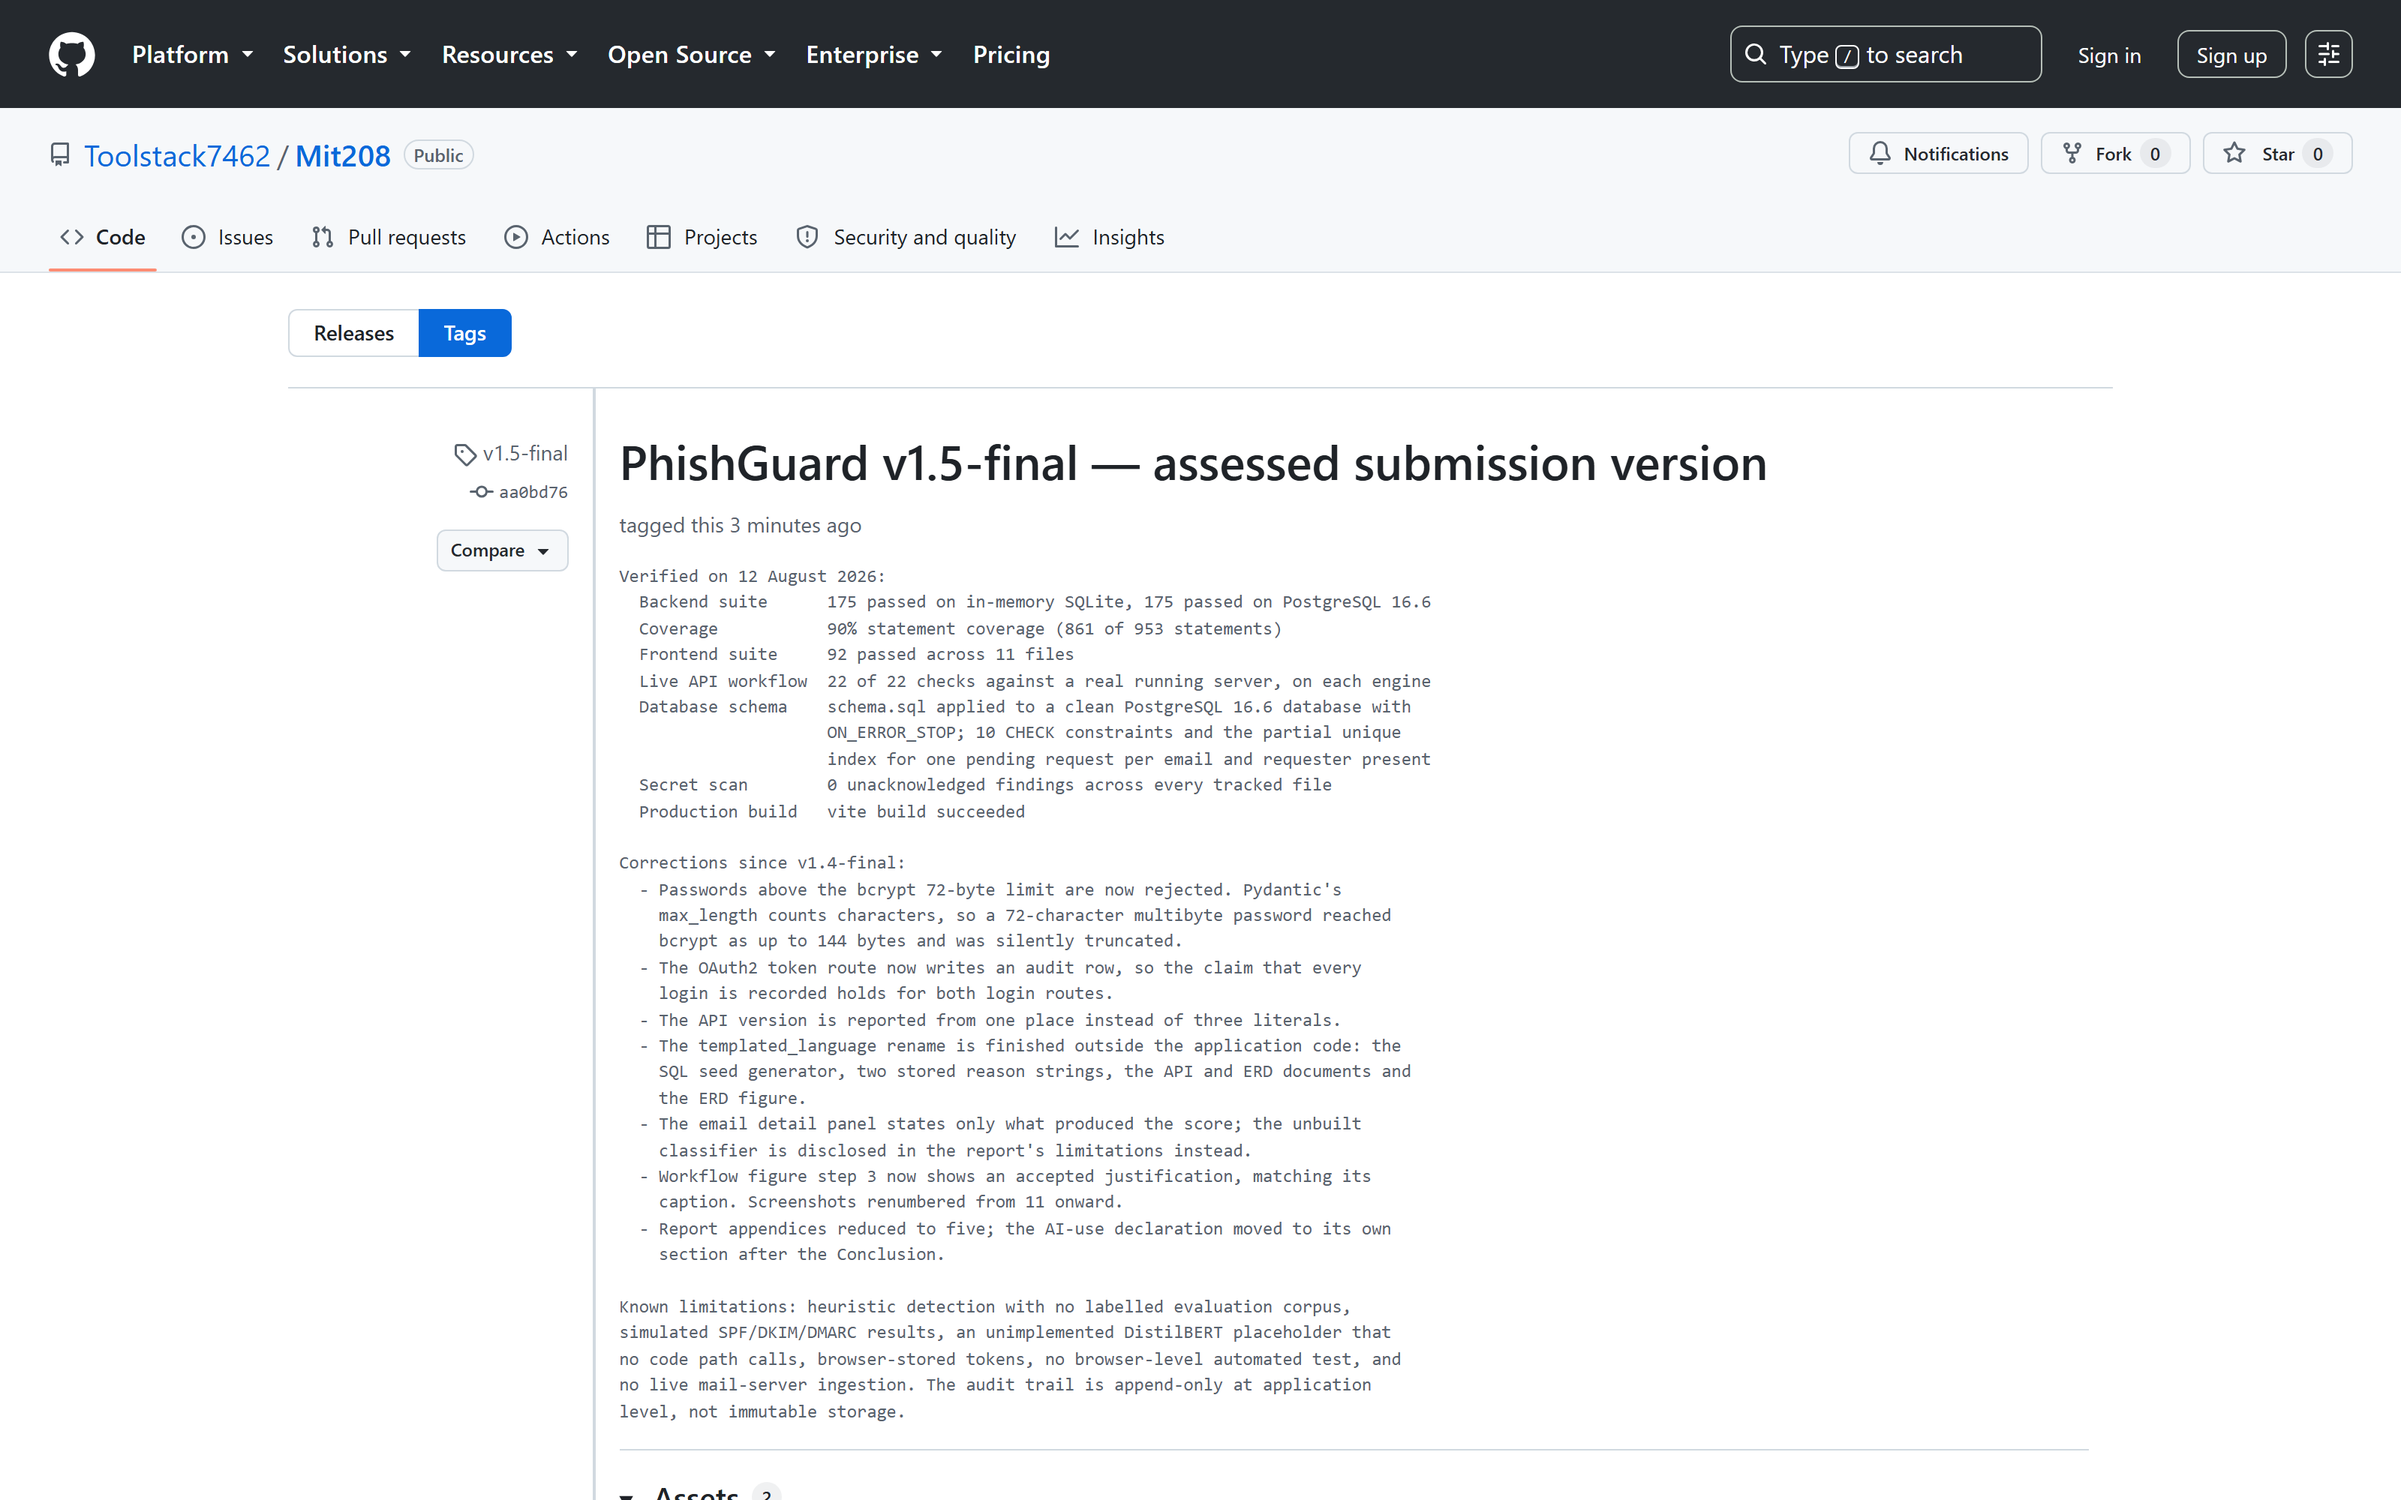
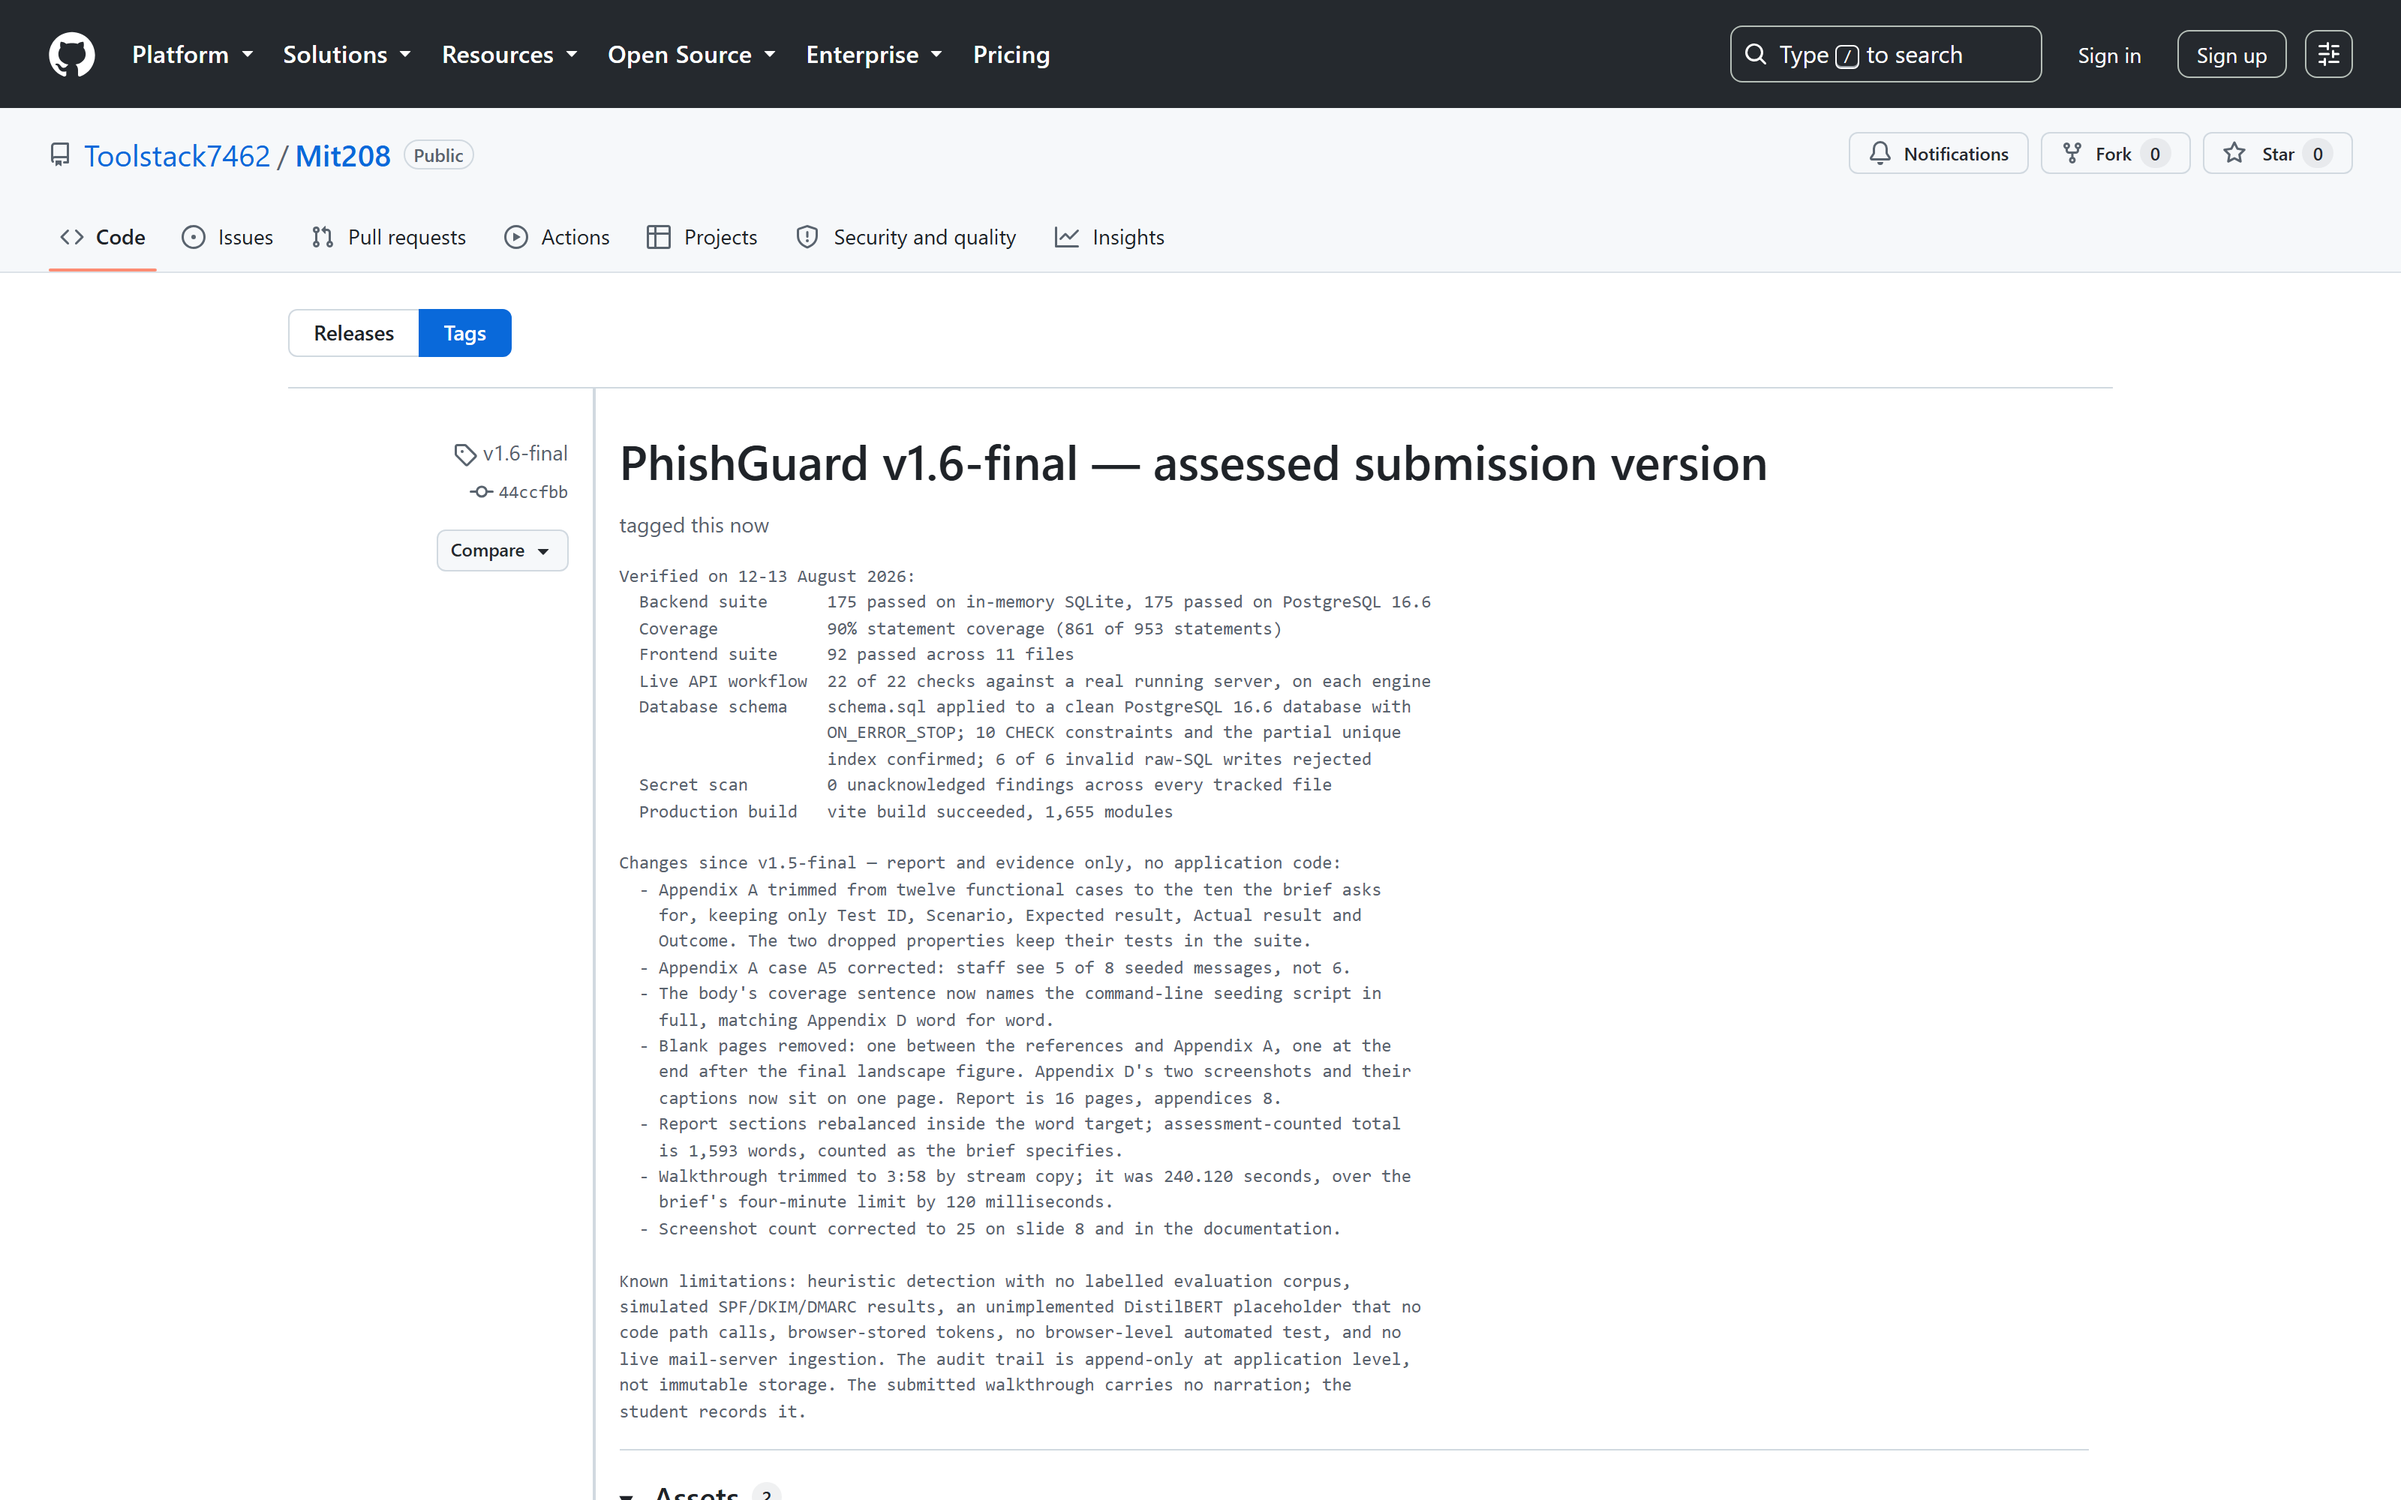
docs: record v1.6-final evidence and stop the Appendix A header wrapping
Run #23 on commit 44ccfbb, all six job executions green, captured with the release
page for tag v1.6-final.

Rendering the page showed 'Test ID' and 'Outcome' each breaking across two lines
in the header at their old widths. The five columns now total the full 6.85in text
width, so every header holds one line.

Changed region(s): [[0.25, 0.558, 0.5938, 0.961], [0.375, 0.496, 0.5938, 0.527], [0.3125, 0.341, 0.375, 0.403]]

diff --git a/evidence/finalise_report.py b/evidence/finalise_report.py
@@ -1270,7 +1270,9 @@ def main() -> int:
     a_cap = add_caption(doc, a_heading,
                         "Table A1. Representative cases with their expected and actual "
                         "results. Every row was executed.", above=True)
-    a_table = build_table(doc, a_cap, APPENDIX_A, [0.55, 1.75, 1.95, 1.75, 0.60])
+    a_table = build_table(doc, a_cap, APPENDIX_A,
+                        # "Test ID" and "Outcome" both need to hold one line.
+                        [0.64, 1.56, 1.90, 1.95, 0.80])
 
     # Appendix B - planned versus completed.
     b_heading = para_after(a_table, style="Heading 1")

diff --git a/evidence/screenshots/INDEX.md b/evidence/screenshots/INDEX.md
@@ -39,9 +39,9 @@ Captured by `evidence/capture_postgres_evidence.py` against the application runn
 
 ## Continuous integration and release evidence
 
-Captured by `evidence/capture_ci_evidence.py`, which reads the run from the GitHub API and refuses to write anything unless it passed. Run #16 on commit aa0bd76, all 6 jobs green.
+Captured by `evidence/capture_ci_evidence.py`, which reads the run from the GitHub API and refuses to write anything unless it passed. Run #23 on commit 44ccfbb, all 6 jobs green.
 
 | File | What it shows |
 |---|---|
-| `24-ci-run-passing.png` | GitHub Actions run #16 on the public repository, every job green |
-| `25-release-tag.png` | The assessed version, tag v1.5-final, on the public repository |
+| `24-ci-run-passing.png` | GitHub Actions run #23 on the public repository, every job green |
+| `25-release-tag.png` | The assessed version, tag v1.6-final, on the public repository |
